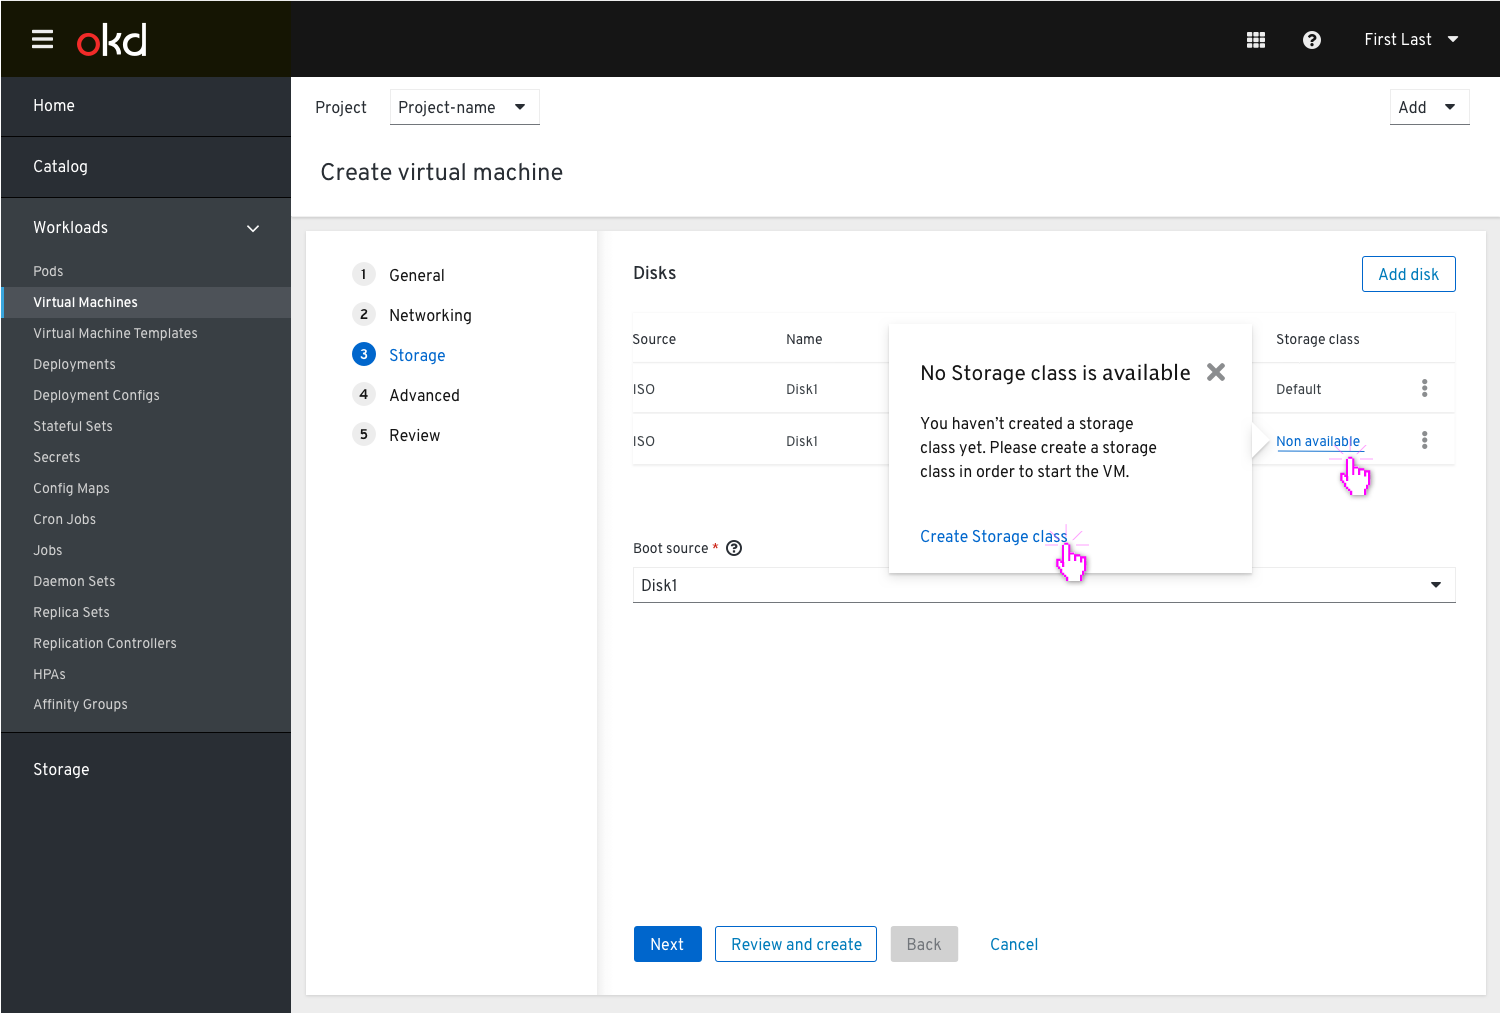
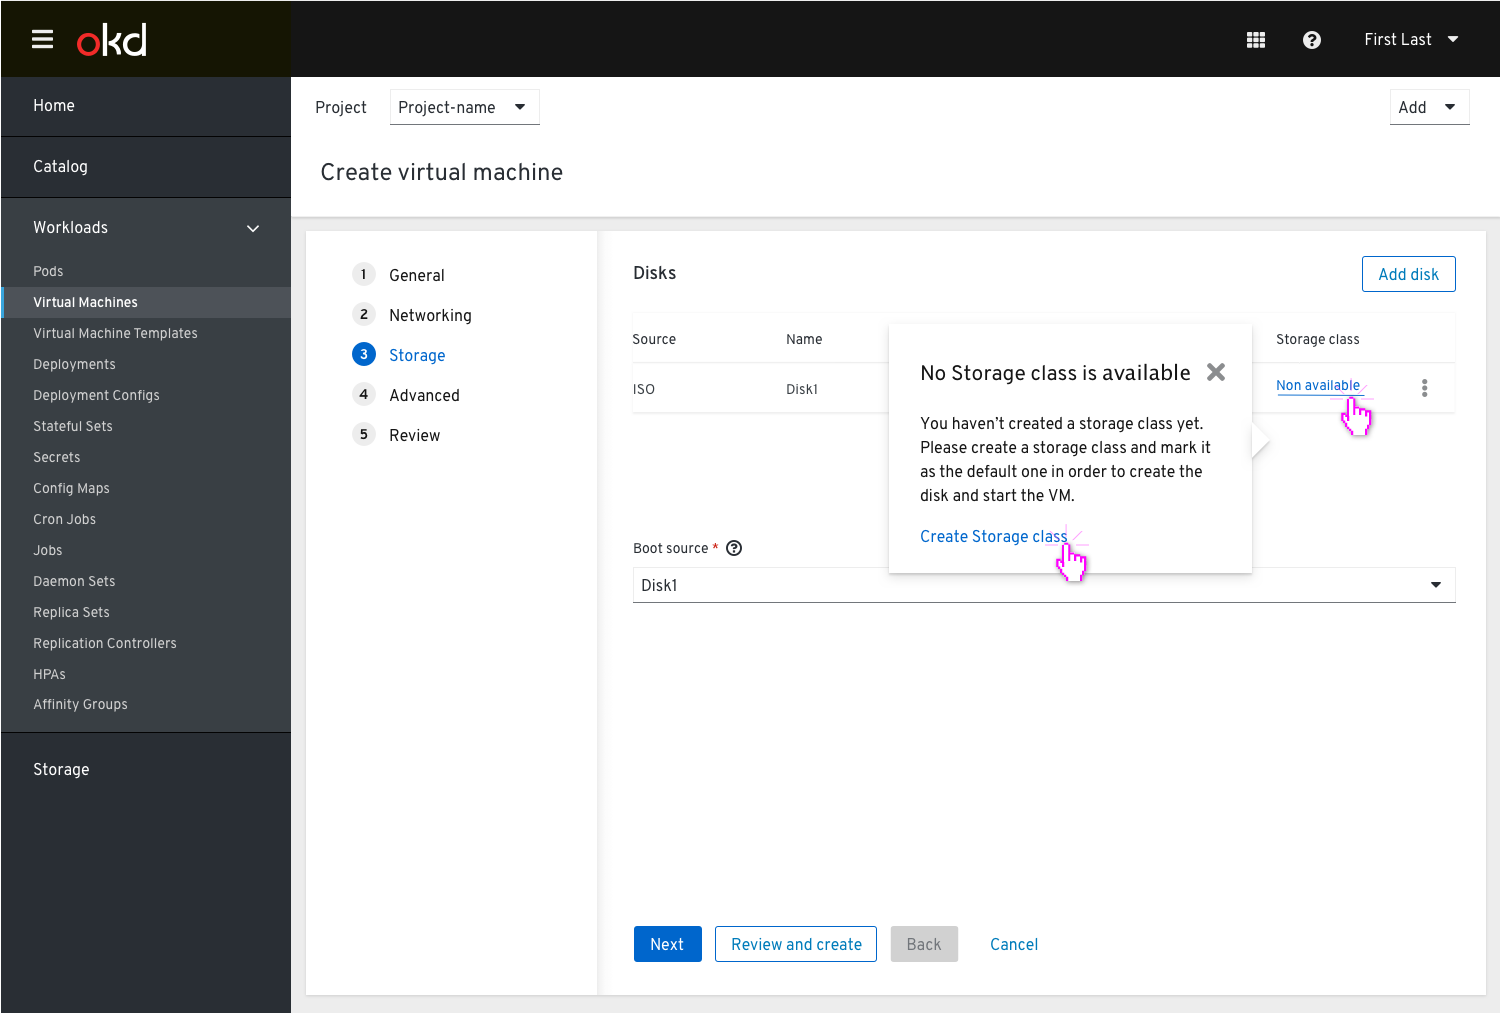
changes because we don't allow the user to create a SC in the flow

Changed region(s): [[0.6133, 0.3978, 0.7973, 0.4896], [0.8587, 0.3672, 0.92, 0.4896], [0.5213, 0.4284, 0.552, 0.459]]

diff --git a/web-console/knikubevirt/NoStorageClassAvailable/NoStorageClassAvailable.md b/web-console/knikubevirt/NoStorageClassAvailable/NoStorageClassAvailable.md
@@ -1,15 +1,12 @@
 # Storage class isn’t defined
 
-Currently in our designs we have a default storage class used when a disk is added in the Create VM flow, but we do not cover the absence of a default storage class.
 This design covers the state of no storage class selected and determines how the user should be notified.
 
-During the process of creating the VM, in the Storage step, the user needs to add a disk.
+During the process of creating the VM, in the Storage step, the user adds a disk.
 
 ![Add disk action](img/Add-disk-default.png)
 
 Clicking the ‘Add disk’ button will open a modal, where the user is asked to fill in the disk’s details.
-
-We want to allow the user to set the Storage class within the wizard, with no need to be taken out of it.
 
 ![Fill in disk details](img/Add-disk-modal-details-required.png)
 
@@ -17,7 +14,8 @@ Clicking the ‘Add disk’ button at the bottom will add the disk to the list v
 
 ![Empty Storage class popover](img/Disks-list.png)
 
-Clicking on the ‘non available’ Storage class will show a popover with more info and an action link which will take the user to the ‘Create Storage class’ modal.
+Clicking on the ‘non available’ Storage class will show a popover that explains to the users they need to create a storage class and mark it as the default one in order to create the disk and start the VM.
+The popover will have an action link which will take the user to the ‘Create Storage class’ modal.
 
 In the VM list view, the status of the VM would still be pending untill the user would create a storage class and mark it as default.
 
